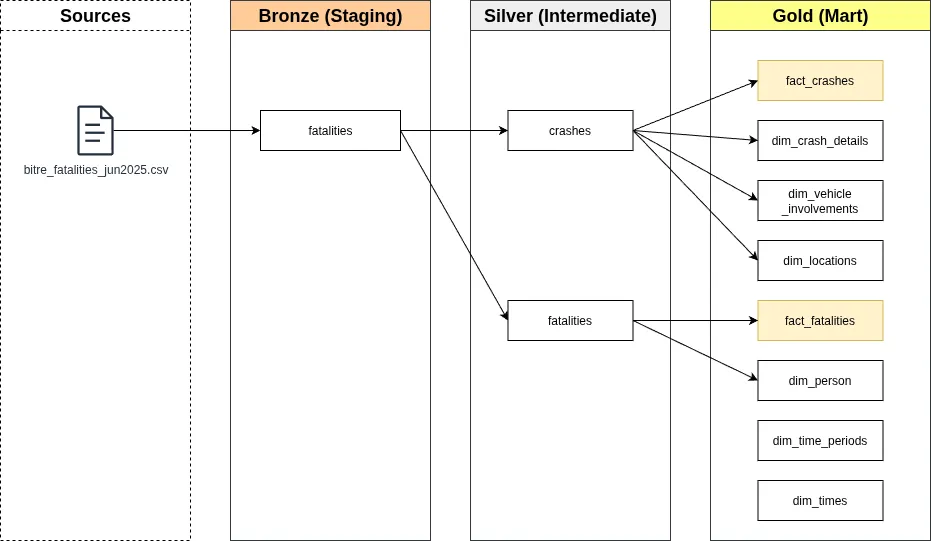
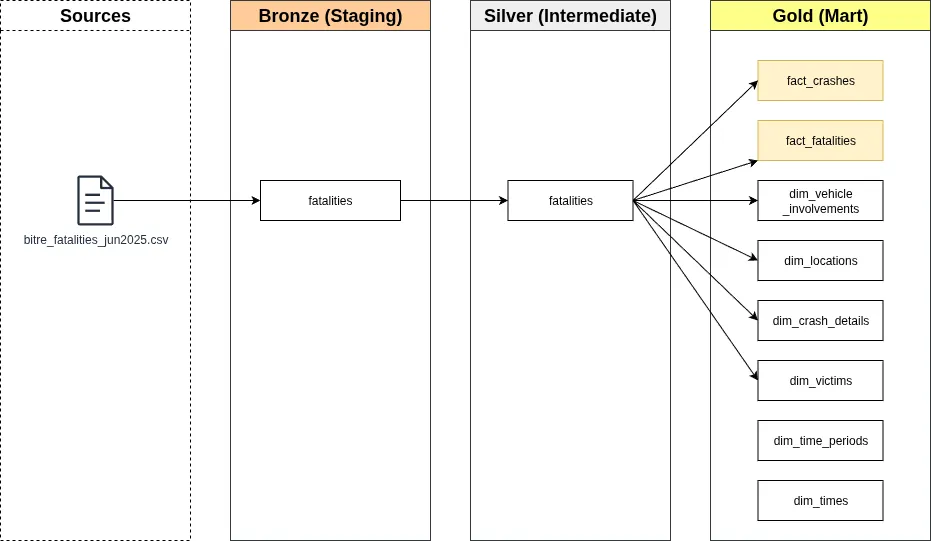
docs: update images and README, add MIT LICENSE

diff --git a/README.md b/README.md
@@ -1,6 +1,6 @@
-# Data Warehouse
+# ARDD Data Warehouse
 
-Intern project for data warehouse. TODO: more info here
+Internship final project for data warehouse to visualize the Australian Road Deaths Database (ARDD). The project practices task management, data analysis, ETL (extract, transform, load) process, data architect, and probably some CI/CD & DevOps.
 
 ## Source Data
 
@@ -12,15 +12,48 @@ The dataset for this project are gathered from the Australian Road Deaths Databa
 
 https://datahub.roadsafety.gov.au/progress-reporting/monthly-road-deaths
 
-Other complementing dataset are downloaded from:
+## Project Overview
 
-https://www.abs.gov.au/statistics/standards/australian-statistical-geography-standard-asgs-edition-3/jul2021-jun2026/access-and-downloads/allocation-files
+### Data Architecture
 
-## Prerequisites
+The data warehouse uses [Medallion Architecture](https://www.databricks.com/glossary/medallion-architecture) that consists of three layers:
 
+- **Bronze Layer**: Extracts raw data from source dataset
+- **Silver Layer**: Cleaned and validated data with business rules applied
+- **Gold Layer**: Analytics-ready models for reporting and business intelligence
+
+### Data Flow
+
+The project handles crashes and fatalities data extracted from the ARDD. Following is the data architecture diagram:
+
+![Data Flow Diagram](./docs/data-flow-diagram.webp)
+
+### Data Schema
+
+[Fact constellation](https://www.geeksforgeeks.org/dbms/fact-constellation-in-data-warehouse-modelling/), also known as Galaxy Schema, is the perfect schema design for this particular warehouse. The data processing results in two fact tables and six dimensions, where all facts share the same dimensions, except for `dim_victims` exclusively `fact_fatalities`. The following is the data schema for the final gold layer.
+
+![Data Schema](./docs/data-schema.webp)
+
+## Technologies
+
+### Prerequisites
+
+- [Git](https://git-scm.com/) for version control
 - [Docker](https://docs.docker.com/engine/install/) for containerization
 - [uv](https://docs.astral.sh/uv/getting-started/installation/) for Python management
 - bash supported environment for scripts
+
+### Setup
+
+You may downlaod the repository archive directly using the URL:
+
+https://github.com/sglkc/data-warehouse/archive/refs/heads/master.zip
+
+or clone with git:
+
+```sh
+git clone https://github.com/sglkc/ardd-data-warehouse.git && cd ardd-data-warehouse
+```
 
 Before running, you must set up environment variables for the project:
 
@@ -30,7 +63,7 @@ cp .env.example .env
 
 The variables are ready for development, but it can be customized.
 
-## Python
+### Python
 
 The project uses uv for Python version and package management, make sure you already had it installed.
 
@@ -52,7 +85,7 @@ The project uses uv for Python version and package management, make sure you alr
   uv sync
   ```
 
-## Docker
+### Docker
 
 The project uses Docker for containerization, the services used are:
 
@@ -84,7 +117,7 @@ The script should be executable by default, if not, run:
 chmod +x ./compose.sh
 ```
 
-## PostgreSQL
+### PostgreSQL
 
 By default, the credentials for containerized database should be:
 
@@ -96,7 +129,7 @@ By default, the credentials for containerized database should be:
 
 Please refer to your .env file, should you change any of the defaults.
 
-## Metabase
+### Metabase
 
 Upon running the `compose up` script, you will have to wait for Metabase to start.
 This process should take a minute, though the logs can be seen with:
@@ -112,14 +145,41 @@ Follow the process and input anything. On the 4th step, you should pick PostgreS
 
 If you use the database locally, you must replace `localhost` with `host.docker.internal`.
 
-![Metabase PostgreSQL setup](./docs/metabase.webp)
+<details>
+  <summary>Setup PostgreSQL data warehouse in Metabase</summary>
 
-## dlt
+  ![Metabase PostgreSQL setup](./docs/metabase.webp)
 
-The project utilizes dlt (data load tool) to extract file datasets into the data warehouse bronze layer.
+</details>
+
+### dlt
+
+The project utilizes [dlt](https://dlthub.com/) (data load tool) to extract file datasets into the data warehouse bronze layer.
 
 To load the source datasets into the data warehouse, run the following script with additional source name:
 
 ```sh
-./dlt.sh < all | fatalities-jun | fatalities-jul | lga | ra | sa4 | dwellings | population >
+./dlt.sh <all|fatalities-jun|fatalities-jul|lga|ra|sa4|dwellings|population>
 ```
+
+### SQLMesh
+
+As for the transform and load (TL) process, the project uses [SQLMesh](https://sqlmesh.readthedocs.io/en/stable/) in the silver and gold layer.
+
+To apply model changes to the data warehouse, run the following script:
+
+```
+./sqlmesh.sh
+```
+
+## Expanding the project
+
+There are more publicly available datasets from Australian Bureau of Statistics that may be used to expand this project to a larger data warehouse:
+
+https://www.abs.gov.au/statistics
+
+The [population datasets](https://www.abs.gov.au/statistics/people/population) are very helpful to know territory populations and death counts.
+
+## License
+
+You may contribute or fork this repository, please feel free to use this to learn!
